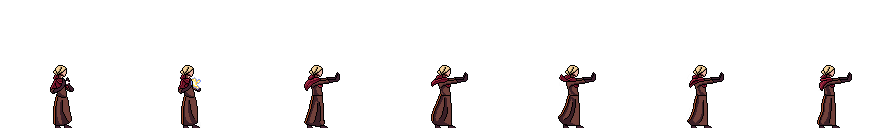
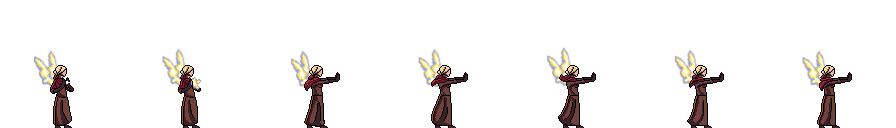
Replaced the horizontal beam texture. Added the vertical beam texture. Added the texture for when the boss takes damage while flying

diff --git a/Final Project/Game1.cs b/Final Project/Game1.cs
@@ -4,6 +4,7 @@ using Microsoft.Xna.Framework.Input;
 using System;
 using System.Collections.Generic;
 using System.ComponentModel;
+using System.Net.Http;
 using System.Security.Principal;
 
 namespace Final_Project
@@ -28,10 +29,9 @@ namespace Final_Project
         Dash,
         LightningBolt,
         SlashTwo,
-
         Jump,
         Hurt,
-        
+        HurtFlying,
         FlyingIdle,
         HorizontalBeam,
         VerticalBeam,
@@ -98,6 +98,7 @@ namespace Final_Project
 
         Texture2D bossJumpTexture;
         Texture2D bossHurtTexture;
+        Texture2D bossHurtFlyingTexture;
         Texture2D bossDeadTexture;
 
         Texture2D bossPhaseTwoIdleTexture;
@@ -154,6 +155,7 @@ namespace Final_Project
             bossTextures.Add(bossSlashTwoTexture);
             bossTextures.Add(bossJumpTexture);
             bossTextures.Add(bossHurtTexture);
+            bossTextures.Add(bossHurtFlyingTexture);
             bossTextures.Add(bossPhaseTwoIdleTexture);
             bossTextures.Add(bossHorizontalBeamTexture);
             bossTextures.Add(bossVerticalBeamTexture);
@@ -186,9 +188,10 @@ namespace Final_Project
             bossLightingAttackTexture = Content.Load<Texture2D>("Lightning Bolt");
             bossJumpTexture = Content.Load<Texture2D>("Boss Jump");
             bossHurtTexture = Content.Load<Texture2D>("Boss Hurt");
+            bossHurtFlyingTexture = Content.Load<Texture2D>("Boss Hurt Flying");
             bossPhaseTwoIdleTexture = Content.Load<Texture2D>("Boss Flying");
             bossHorizontalBeamTexture = Content.Load<Texture2D>("Boss Horizontal Beam");
-            bossVerticalBeamTexture = Content.Load<Texture2D>("");
+            bossVerticalBeamTexture = Content.Load<Texture2D>("Boss Vertical Beam");
             bossDeadTexture = Content.Load<Texture2D>("Boss Dead");
             //
 
